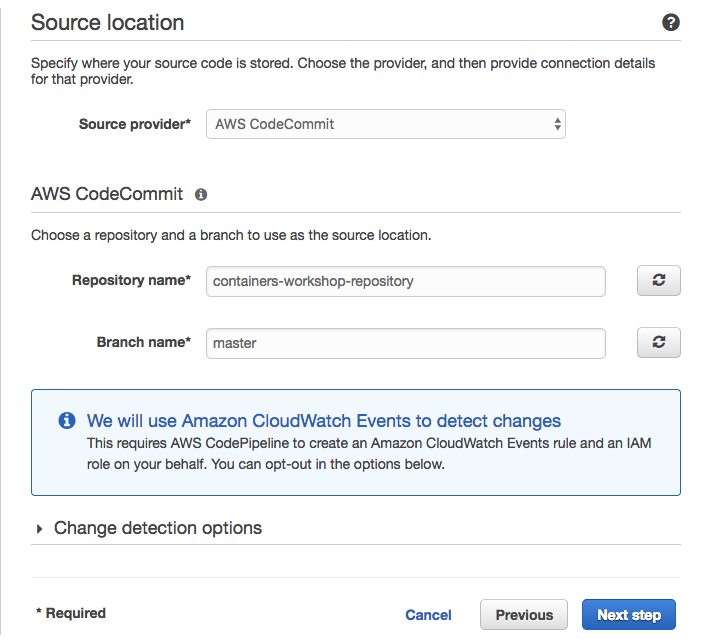
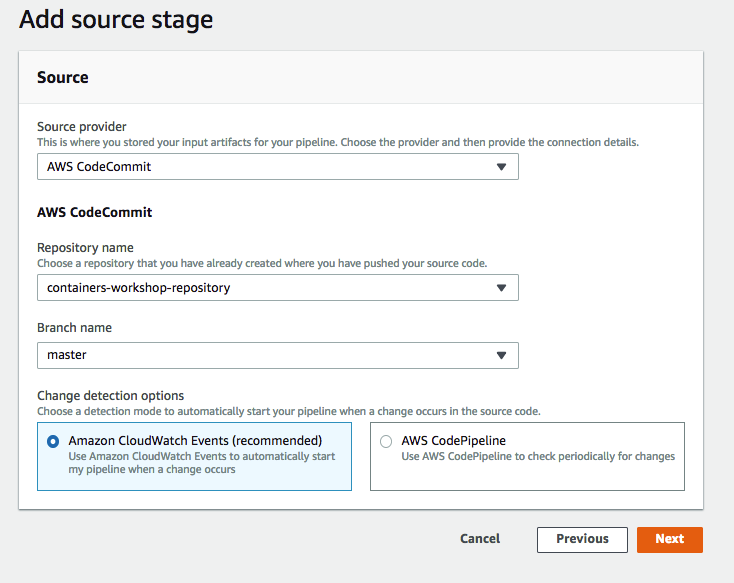
Fixing CodePipeline

diff --git a/05-ContinuousDelivery/README.md b/05-ContinuousDelivery/README.md
@@ -298,7 +298,7 @@ For **Repository name** select the respository created for this workshop `contai
 
 For **Branch name** select `master`
 
-Click in **Next step**
+Click in **Next**
 
 ![CodePipeline Source Stage](/05-ContinuousDelivery/images/codepipeline_repository_ii.png)
 
